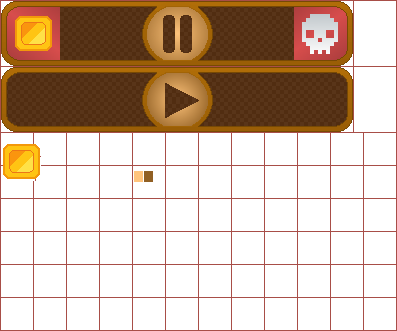
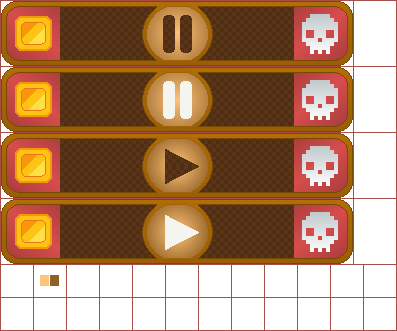
small improvement on game menu visuals

diff --git a/src/objects/GameMenu.java b/src/objects/GameMenu.java
@@ -3,9 +3,8 @@ package objects;
 import java.awt.Color;
 import java.awt.Font;
 import java.awt.Graphics;
+import java.awt.Graphics2D;
 import java.awt.Rectangle;
-
-import javax.swing.SwingConstants;
 
 import framework.GameObject;
 import framework.MouseInput;
@@ -35,15 +34,26 @@ public class GameMenu extends GameObject {
 			pressTime = System.currentTimeMillis();
 			if (getPauseButtonBounds().contains(MouseInput.x, MouseInput.y)) {
 				if (GameMain.state == GameMain.STATE.GAME)
-					GameMain.state = GameMain.STATE.PAUSE_MENU;
-				else if (GameMain.state == GameMain.STATE.PAUSE_MENU)
+					GameMain.state = GameMain.STATE.PAUSED;
+				else if (GameMain.state == GameMain.STATE.PAUSED)
 					GameMain.state = GameMain.STATE.GAME;
 			}
 		}
 	}
 
 	public void render(Graphics g) {
-		g.drawImage(tex.gameMenu, x, y, null);
+		if (GameMain.state == GameMain.STATE.PAUSED) {
+			if (getPauseButtonBounds().contains(MouseInput.x, MouseInput.y)) 
+				g.drawImage(tex.gameMenu[3], x, y, null);
+			else
+				g.drawImage(tex.gameMenu[2], x, y, null);
+		}
+		else {
+			if (getPauseButtonBounds().contains(MouseInput.x, MouseInput.y)) 
+				g.drawImage(tex.gameMenu[1], x, y, null);
+			else
+				g.drawImage(tex.gameMenu[0], x, y, null);
+		}
 		
 		g.setColor(Color.white);
 		g.setFont(font);
@@ -61,7 +71,7 @@ public class GameMenu extends GameObject {
 	}
 
 	public Rectangle getPauseButtonBounds() {
-		return new Rectangle(x + 32 * 4, y + height / 4, 32, 32);
+		return new Rectangle(x + width / 2 - 32, y + 5, 64, 54);
 	}
 
 }

diff --git a/src/framework/Texture.java b/src/framework/Texture.java
@@ -17,7 +17,7 @@ public class Texture {
 	public BufferedImage[] coins = new BufferedImage[5];
 	public BufferedImage[] coinEarned = new BufferedImage[5];
 	
-	public BufferedImage gameMenu;
+	public BufferedImage[] gameMenu = new BufferedImage[4];
 	
 	public Texture() {
 		BufferedImageLoader loader = new BufferedImageLoader();
@@ -47,6 +47,7 @@ public class Texture {
 		for (int i = 0; i < 5; i++)
 			coinEarned[i] = block_sheet.getSubimage(1 + 40 * i, 166, 39, 32);
 		
-		gameMenu = menu_sheet.getSubimage(1, 1, 32 * 11, 32 * 2 + 1);
+		for (int i = 0; i < 4; i++)
+			gameMenu[i] = menu_sheet.getSubimage(1, 1 + 66 * i, 32 * 11, 32 * 2 + 1);
 	}
 }

diff --git a/src/window/GameMain.java b/src/window/GameMain.java
@@ -49,7 +49,7 @@ public class GameMain extends Canvas implements Runnable {
 	
 	public static enum STATE{
 		MAIN_MENU,
-		PAUSE_MENU,
+		PAUSED,
 		GAME,
 		LEVELS
 	};
